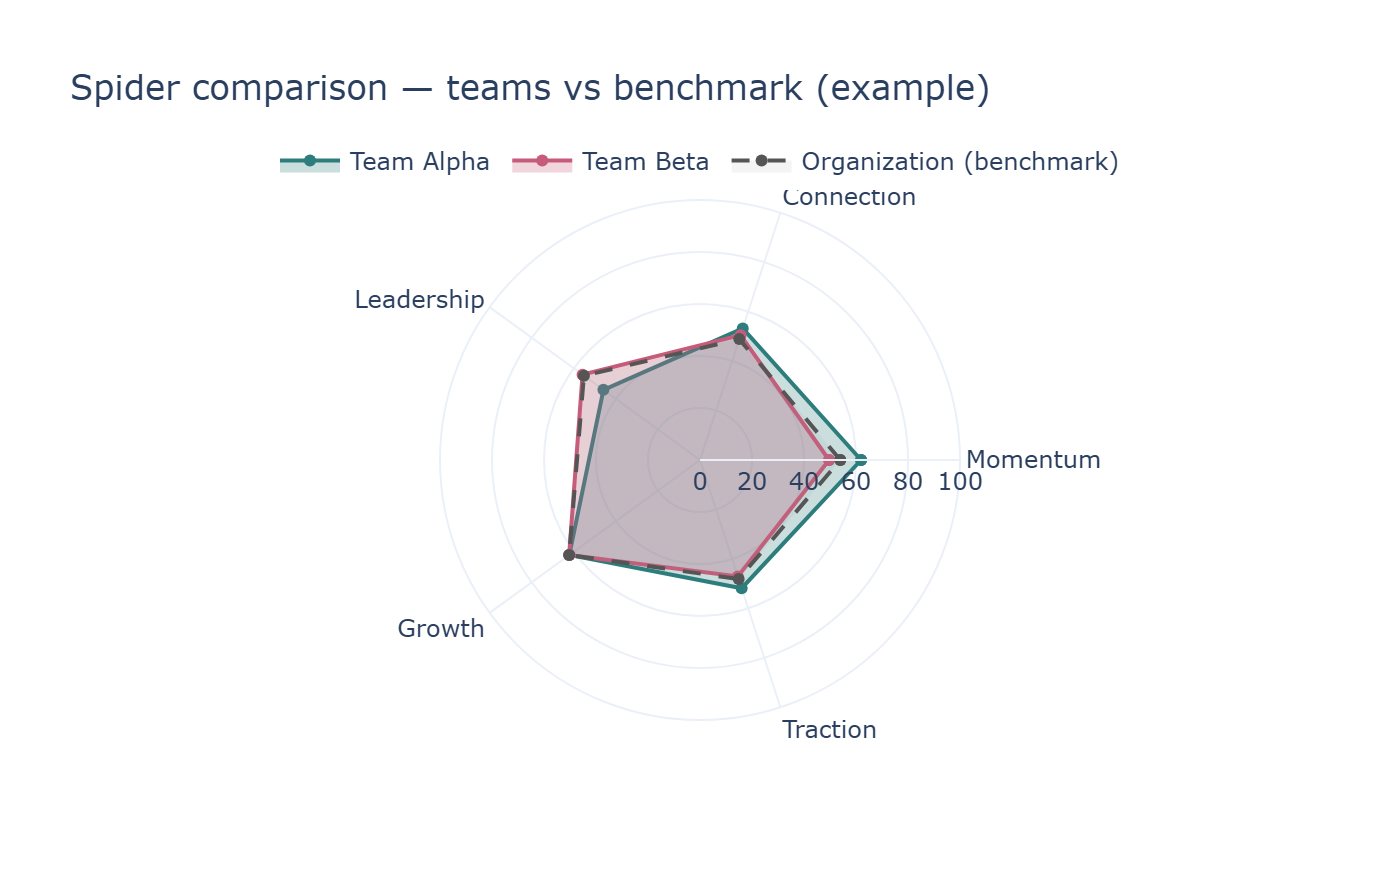
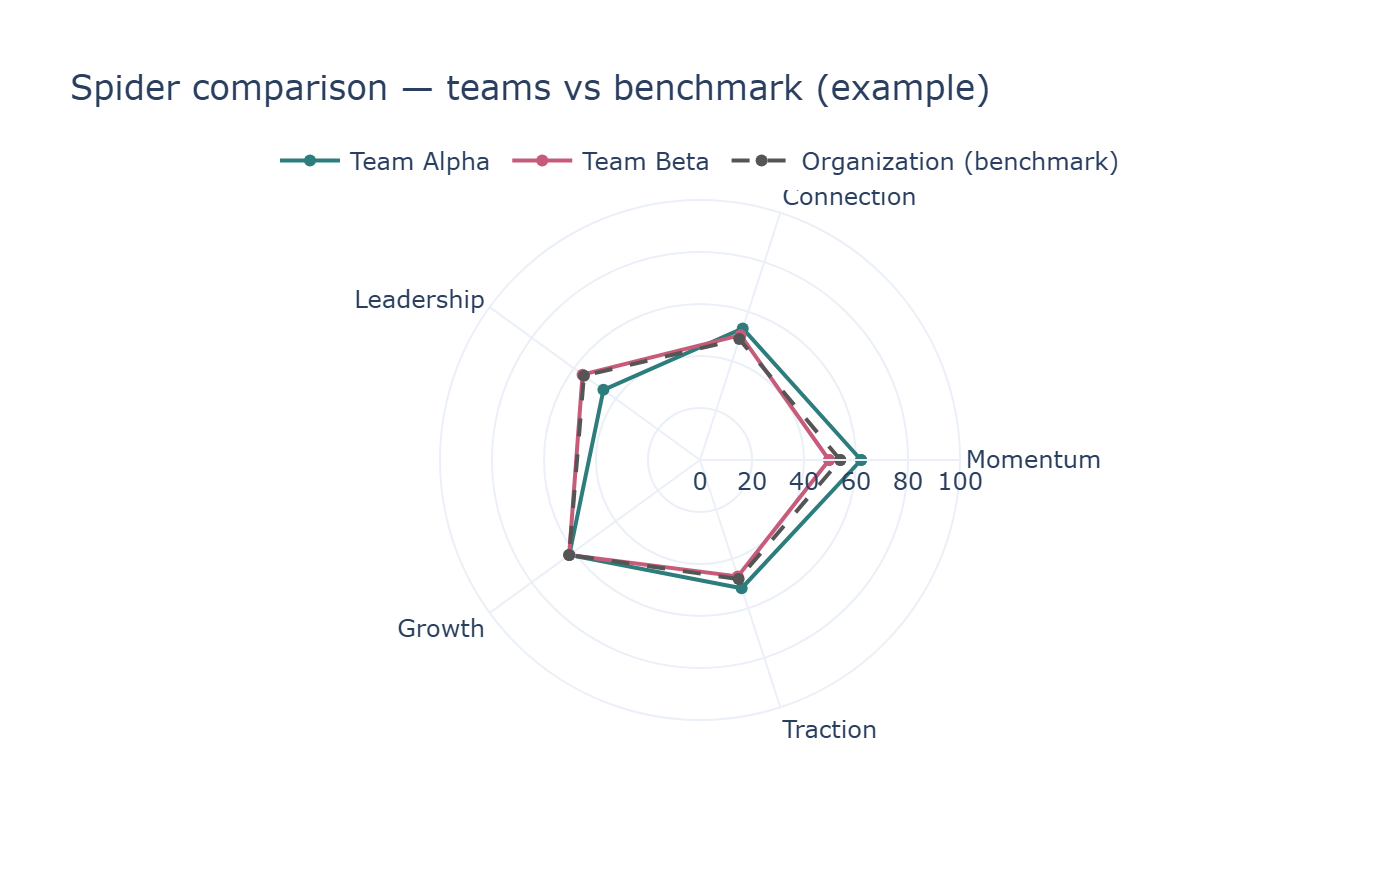
Spec: spider contours only in text and image; regenerate spider-5-compare.png (no fill)

Changed region(s): [[0.3993, 0.3682, 0.6143, 0.675], [0.3686, 0.1841, 0.43, 0.2148], [0.1843, 0.1841, 0.2457, 0.2148]]

diff --git a/scripts/generate_spec_chart_examples.py b/scripts/generate_spec_chart_examples.py
@@ -108,7 +108,7 @@ def chart_spider_15():
 
 
 def chart_spider_5_compare():
-    # Comparison mode: two teams + org benchmark on same spider
+    # Comparison mode: contours only (no fill) — two teams + org benchmark
     np.random.seed(10)
     team_a = np.clip(mean_super + np.random.randn(5) * 6, 35, 80)
     team_b = np.clip(mean_super + np.random.randn(5) * 6, 35, 80)
@@ -117,19 +117,19 @@ def chart_spider_5_compare():
     fig = go.Figure()
     fig.add_trace(go.Scatterpolar(
         r=list(team_a) + [team_a[0]], theta=theta_closed,
-        fill="toself", fillcolor="rgba(45,125,125,0.25)",
+        fill="none",
         line=dict(color="#2d7d7d", width=2),
         name="Team Alpha",
     ))
     fig.add_trace(go.Scatterpolar(
         r=list(team_b) + [team_b[0]], theta=theta_closed,
-        fill="toself", fillcolor="rgba(199,91,122,0.25)",
+        fill="none",
         line=dict(color="#c75b7a", width=2),
         name="Team Beta",
     ))
     fig.add_trace(go.Scatterpolar(
         r=org_bench + [org_bench[0]], theta=theta_closed,
-        fill="toself", fillcolor="rgba(150,150,150,0.1)",
+        fill="none",
         line=dict(color="#555", width=2, dash="dash"),
         name="Organization (benchmark)",
     ))

diff --git a/DASHBOARD_SPEC.md b/DASHBOARD_SPEC.md
@@ -58,11 +58,11 @@ The dashboard shows one unit's culture profile with a grouped horizontal bar cha
 
 **Comparison: spider charts (one to many profiles)**
 
-**Spider (radar) charts** are used to **compare multiple units** — the same subdivisions you see in the forest plot (e.g. divisions under the org, departments under a division, teams under a department). They are **not** an alternative to the bar chart for showing a single profile; they are the **comparison view** alongside the forest plot.
+**Spider (radar) charts** are used to **compare multiple units** — the same subdivisions you see in the forest plot (e.g. divisions under the org, departments under a division, teams under a department). They are **not** an alternative to the bar chart for showing a single profile; they are the **comparison view** alongside the forest plot. **Spider charts show only contours (outlines); there is no filling** — each profile is drawn as a closed line with no shaded area inside, so overlapping profiles stay readable.
 
 - In the **"Compare children"** section, the user can switch between **Forest plot** and **Spider chart**. Both show the same entities (children of the current unit).
-- The spider shows **one contour (line) per unit**: each subdivision gets its own closed polygon (5 axes for super-dimensions, 15 axes for sub-dimensions), with a distinct color and a legend. So the chart can show **one to many different profiles** in one view — e.g. one line per division, or one per department, or one per team.
-- A **neutral reference** (e.g. 50) is often shown as a dotted circle. The **current level (parent)** can be drawn as a dashed reference line so users can compare each child to the parent. Contours are **lines only** (no fill) to keep overlapping profiles readable.
+- The spider shows **one contour per unit**: each subdivision gets its own closed polygon (5 axes for super-dimensions, 15 axes for sub-dimensions), with a distinct color and a legend. So the chart can show **one to many different profiles** in one view — e.g. one line per division, or one per department, or one per team.
+- A **neutral reference** (e.g. 50) is often shown as a dotted circle. The **current level (parent)** can be drawn as a dashed reference line so users can compare each child to the parent.
 - This makes **profile shape** comparable at a glance: which dimensions are high or low for each unit relative to the others.
 
 ![Spider comparison — one to many profiles (e.g. subdivisions vs reference)](docs/dashboard_spec_images/spider-5-compare.png)
